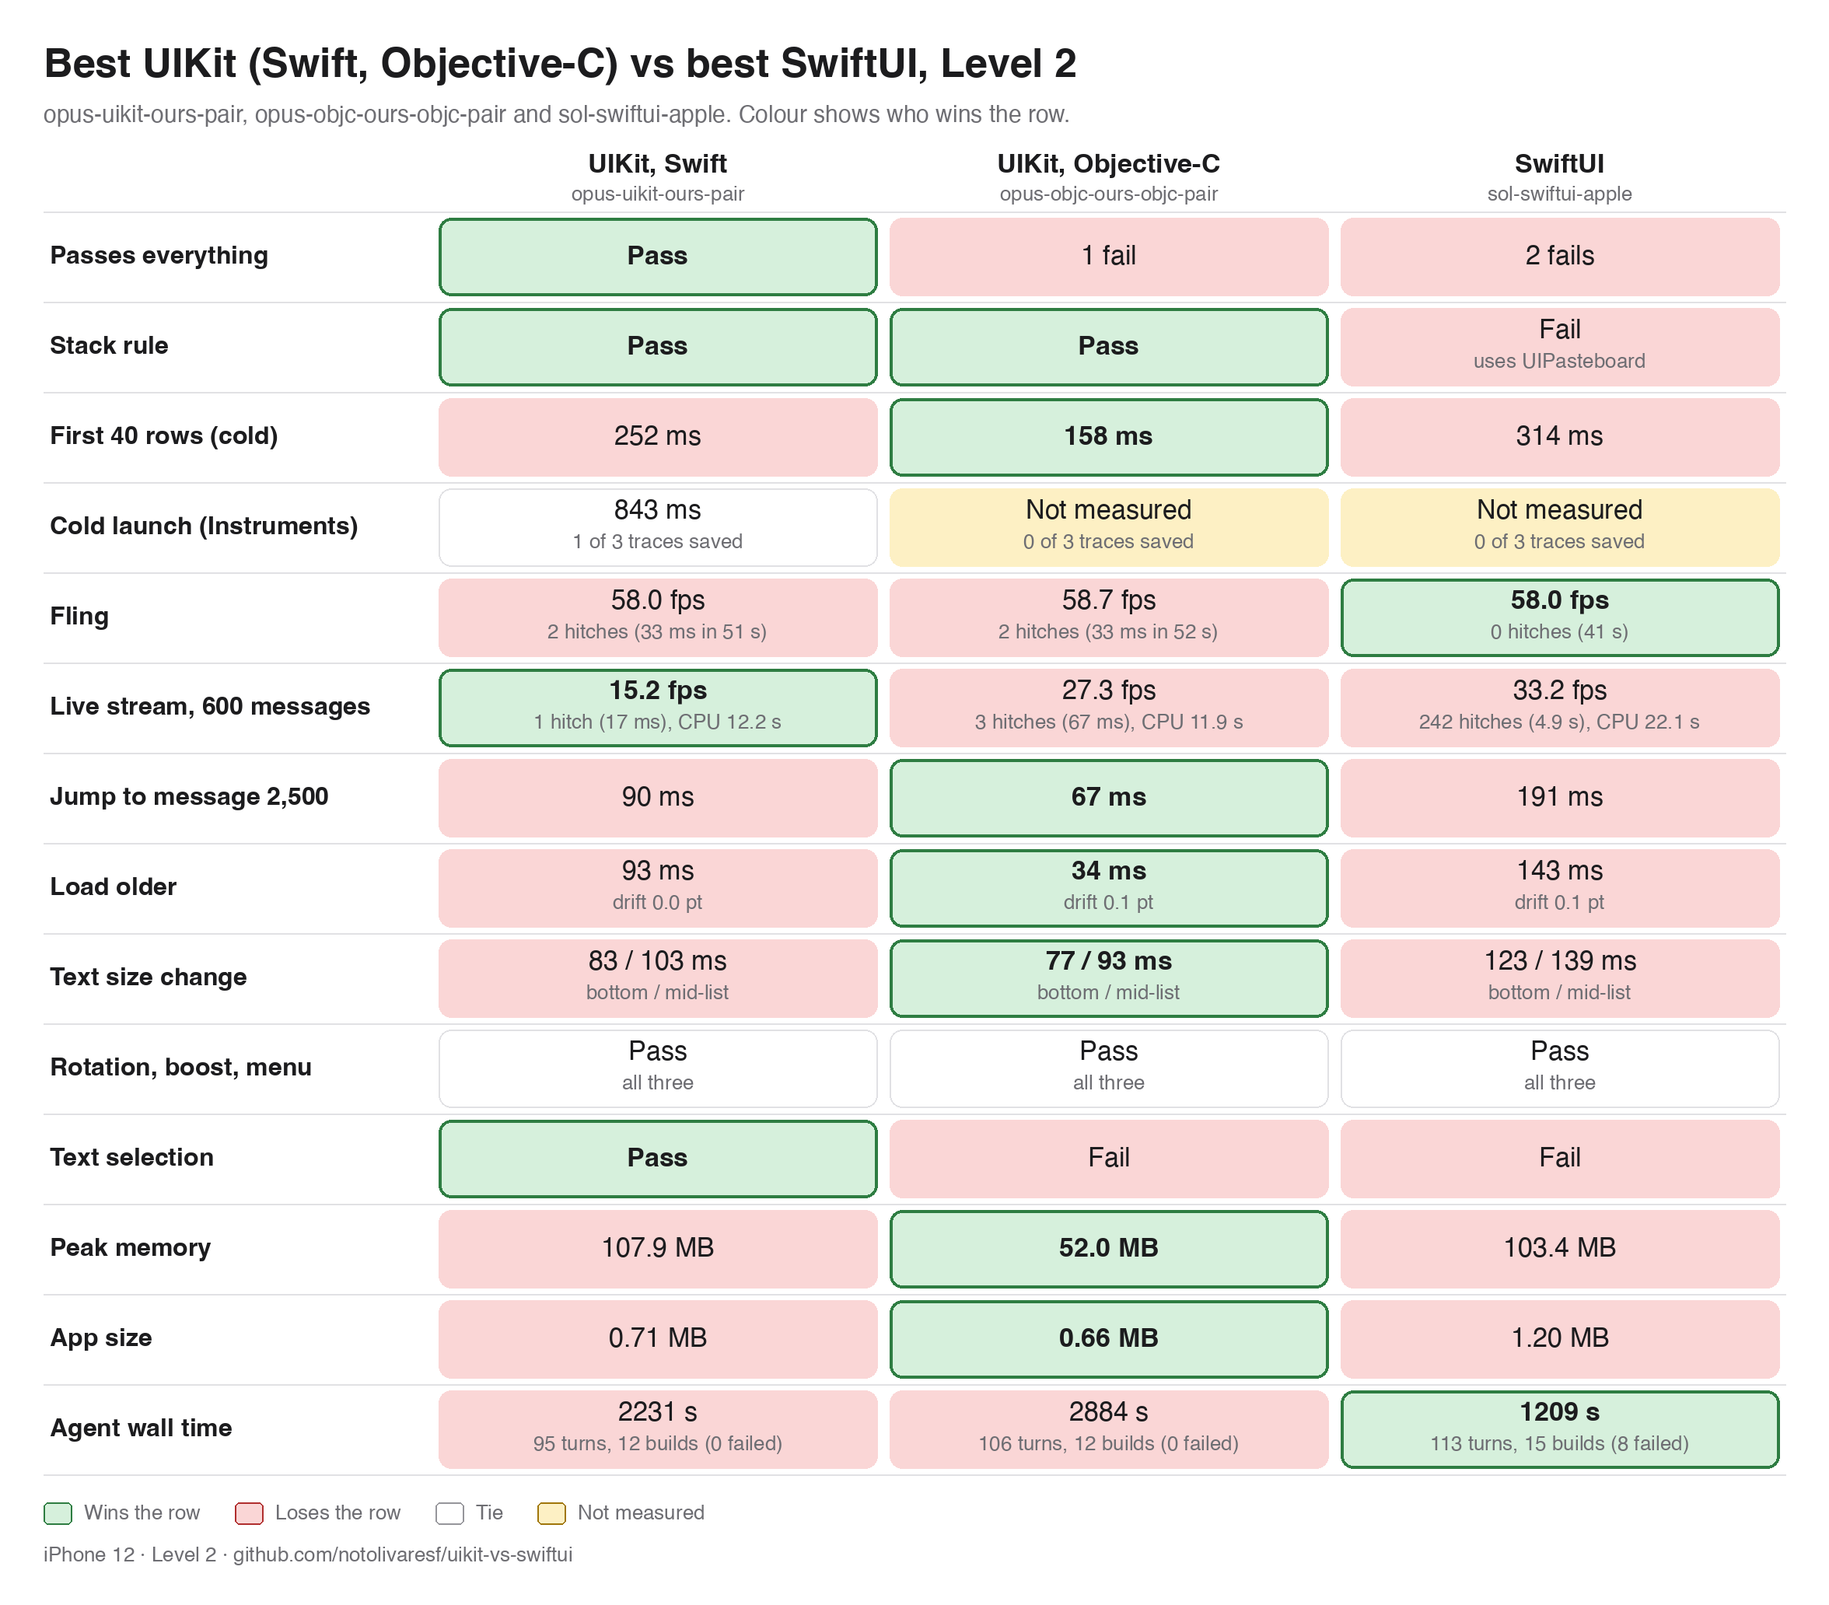
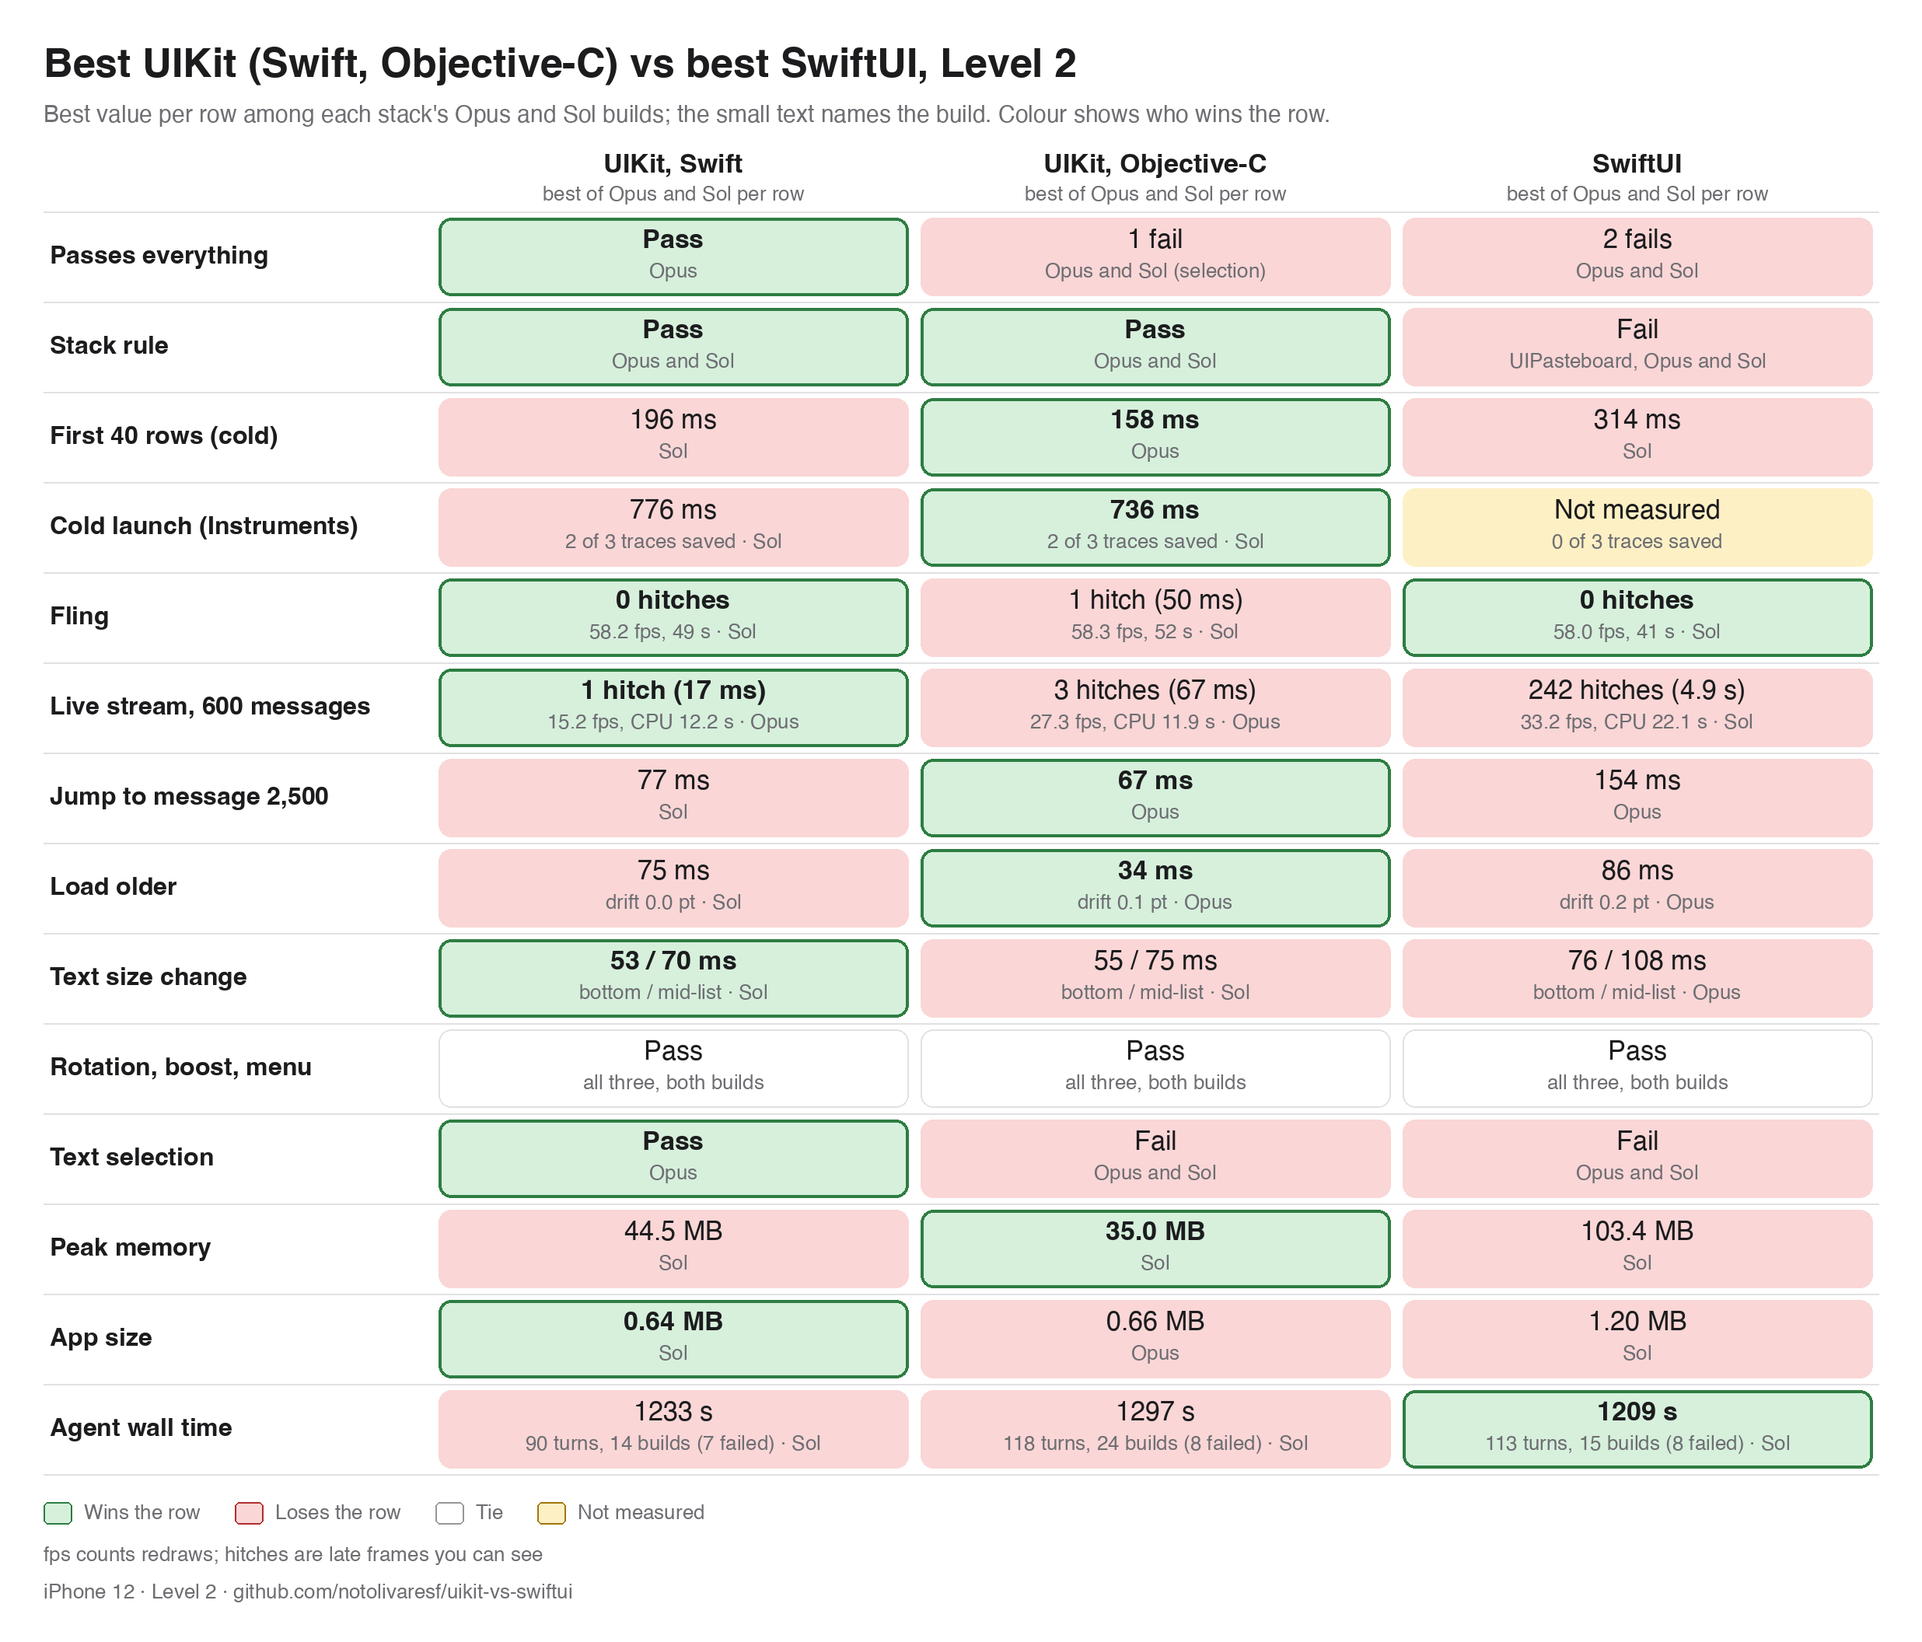
Level 2 best-of: best value per row across Opus and Sol, hitches first

diff --git a/Harness/tools/results_table.py b/Harness/tools/results_table.py
@@ -177,54 +177,45 @@ L2 = dict(title="UIKit vs SwiftUI, Level 2", subtitle="Same Campfire chat room, 
           footer="iPhone 12 · Level 2 · github.com/notolivaresf/uikit-vs-swiftui")
 
 # --- Level 2 best of each stack (docs/results-l2-best.md), rendered only with --l2-best ---
-# Columns: UIKit Swift = opus-uikit-ours-pair (index 0 of L2_ROWS), UIKit Objective-C = opus-objc-ours-objc-pair (2),
-# SwiftUI = sol-swiftui-apple (4). Cell text comes from L2_ROWS; the result per row (W win, L lose, T tie,
-# N not measured) is the best of the three, ties allowed.
-_IDX = (0, 2, 4)
+# Per row, each column (UIKit Swift, UIKit Objective-C, SwiftUI) shows the best value among that stack's two Level 2
+# builds (Opus or Sol; mix and match); the small text names the build. All numbers are from docs/results-l2.md.
+# Result per cell: W win (best of the three, ties allowed), L lose, T tie, N not measured.
 _ST = {"W": "ok", "L": "bad", "T": "none", "N": "warn"}
 
 
-def _row(label, res, subs=None, mains=None):
-    cells = dict(L2_ROWS)[label]
-    out = []
-    for k, i in enumerate(_IDX):
-        _, main, sub, _b = cells[i]
-        if mains:
-            main = mains[k]
-        if subs:
-            sub = subs[k]
-        out.append((_ST[res[k]], main, sub, res[k] == "W"))
-    return (label, out)
+def _r(res, main, sub):
+    return (_ST[res], main, sub, res == "W")
 
 
 L2B_ROWS = [
-    ("Passes everything", [("ok", "Pass", "", True), ("bad", "1 fail", "", False), ("bad", "2 fails", "", False)]),
-    _row("Stack rule", "WWL", subs=("", "", "uses UIPasteboard")),
-    _row("First 40 rows (cold)", "LWL"),
-    ("Cold launch (Instruments)", [("none", "843 ms", "1 of 3 traces saved", False), ("warn", "Not measured", "0 of 3 traces saved", False),
-                                   ("warn", "Not measured", "0 of 3 traces saved", False)]),
-    ("Fling", [("bad", "58.0 fps", "2 hitches (33 ms in 51 s)", False), ("bad", "58.7 fps", "2 hitches (33 ms in 52 s)", False),
-               ("ok", "58.0 fps", "0 hitches (41 s)", True)]),
-    ("Live stream, 600 messages", [("ok", "15.2 fps", "1 hitch (17 ms), CPU 12.2 s", True), ("bad", "27.3 fps", "3 hitches (67 ms), CPU 11.9 s", False),
-                                   ("bad", "33.2 fps", "242 hitches (4.9 s), CPU 22.1 s", False)]),
-    _row("Jump to message 2,500", "LWL"),
-    _row("Load older", "LWL"),
-    ("Text size change", [("bad", "83 / 103 ms", "bottom / mid-list", False), ("ok", "77 / 93 ms", "bottom / mid-list", True),
-                          ("bad", "123 / 139 ms", "bottom / mid-list", False)]),
-    ("Rotation, boost, menu", [("none", "Pass", "all three", False)] * 3),
-    ("Text selection", [("ok", "Pass", "", True), ("bad", "Fail", "", False), ("bad", "Fail", "", False)]),
-    _row("Peak memory", "LWL"),
-    _row("App size", "LWL"),
-    ("Agent wall time", [("bad", "2231 s", "95 turns, 12 builds (0 failed)", False), ("bad", "2884 s", "106 turns, 12 builds (0 failed)", False),
-                         ("ok", "1209 s", "113 turns, 15 builds (8 failed)", True)]),
+    ("Passes everything", [_r("W", "Pass", "Opus"), _r("L", "1 fail", "Opus and Sol (selection)"), _r("L", "2 fails", "Opus and Sol")]),
+    ("Stack rule", [_r("W", "Pass", "Opus and Sol"), _r("W", "Pass", "Opus and Sol"), _r("L", "Fail", "UIPasteboard, Opus and Sol")]),
+    ("First 40 rows (cold)", [_r("L", "196 ms", "Sol"), _r("W", "158 ms", "Opus"), _r("L", "314 ms", "Sol")]),
+    ("Cold launch (Instruments)", [_r("L", "776 ms", "2 of 3 traces saved \u00b7 Sol"), _r("W", "736 ms", "2 of 3 traces saved \u00b7 Sol"),
+                                   _r("N", "Not measured", "0 of 3 traces saved")]),
+    ("Fling", [_r("W", "0 hitches", "58.2 fps, 49 s \u00b7 Sol"), _r("L", "1 hitch (50 ms)", "58.3 fps, 52 s \u00b7 Sol"),
+               _r("W", "0 hitches", "58.0 fps, 41 s \u00b7 Sol")]),
+    ("Live stream, 600 messages", [_r("W", "1 hitch (17 ms)", "15.2 fps, CPU 12.2 s \u00b7 Opus"), _r("L", "3 hitches (67 ms)", "27.3 fps, CPU 11.9 s \u00b7 Opus"),
+                                   _r("L", "242 hitches (4.9 s)", "33.2 fps, CPU 22.1 s \u00b7 Sol")]),
+    ("Jump to message 2,500", [_r("L", "77 ms", "Sol"), _r("W", "67 ms", "Opus"), _r("L", "154 ms", "Opus")]),
+    ("Load older", [_r("L", "75 ms", "drift 0.0 pt \u00b7 Sol"), _r("W", "34 ms", "drift 0.1 pt \u00b7 Opus"), _r("L", "86 ms", "drift 0.2 pt \u00b7 Opus")]),
+    ("Text size change", [_r("W", "53 / 70 ms", "bottom / mid-list \u00b7 Sol"), _r("L", "55 / 75 ms", "bottom / mid-list \u00b7 Sol"),
+                          _r("L", "76 / 108 ms", "bottom / mid-list \u00b7 Opus")]),
+    ("Rotation, boost, menu", [_r("T", "Pass", "all three, both builds")] * 3),
+    ("Text selection", [_r("W", "Pass", "Opus"), _r("L", "Fail", "Opus and Sol"), _r("L", "Fail", "Opus and Sol")]),
+    ("Peak memory", [_r("L", "44.5 MB", "Sol"), _r("W", "35.0 MB", "Sol"), _r("L", "103.4 MB", "Sol")]),
+    ("App size", [_r("W", "0.64 MB", "Sol"), _r("L", "0.66 MB", "Opus"), _r("L", "1.20 MB", "Sol")]),
+    ("Agent wall time", [_r("L", "1233 s", "90 turns, 14 builds (7 failed) \u00b7 Sol"), _r("L", "1297 s", "118 turns, 24 builds (8 failed) \u00b7 Sol"),
+                         _r("W", "1209 s", "113 turns, 15 builds (8 failed) \u00b7 Sol")]),
 ]
 L2B = dict(title="Best UIKit (Swift, Objective-C) vs best SwiftUI, Level 2",
-           subtitle="opus-uikit-ours-pair, opus-objc-ours-objc-pair and sol-swiftui-apple. Colour shows who wins the row.",
-           builds=[("UIKit, Swift", "opus-uikit-ours-pair"), ("UIKit, Objective-C", "opus-objc-ours-objc-pair"),
-                   ("SwiftUI", "sol-swiftui-apple")], rows=L2B_ROWS, col_w=290, file="results-l2-best",
+           subtitle="Best value per row among each stack's Opus and Sol builds; the small text names the build. Colour shows who wins the row.",
+           builds=[("UIKit, Swift", "best of Opus and Sol per row"), ("UIKit, Objective-C", "best of Opus and Sol per row"),
+                   ("SwiftUI", "best of Opus and Sol per row")], rows=L2B_ROWS, col_w=310, file="results-l2-best",
            groups=None, row_h=58,
            legend=[("ok", "Wins the row"), ("bad", "Loses the row"), ("none", "Tie"), ("warn", "Not measured")],
-           footer="iPhone 12 · Level 2 · github.com/notolivaresf/uikit-vs-swiftui")
+           note="fps counts redraws; hitches are late frames you can see",
+           footer="iPhone 12 \u00b7 Level 2 \u00b7 github.com/notolivaresf/uikit-vs-swiftui")
 
 S = 2  # scale
 LABEL_W, COL_W, ROW_H, HEAD_H, GROUP_H = 250, 220, 62, 44, 36  # ROW_H is the default; a spec can set row_h
@@ -260,7 +251,7 @@ def render(name, spec=None):
     group_h = GROUP_H if groups else 0
     W = PAD * 2 + LABEL_W + COL_W * len(BUILDS)
     title_h = 64
-    H = PAD + title_h + group_h + HEAD_H + ROW_H * len(ROWS) + 56 + PAD
+    H = PAD + title_h + group_h + HEAD_H + ROW_H * len(ROWS) + 56 + PAD + (24 if spec.get("note") else 0)
     img = Image.new("RGB", (W * S, H * S), th["bg"])
     d = ImageDraw.Draw(img)
     x0 = PAD
@@ -329,6 +320,9 @@ def render(name, spec=None):
         d.rounded_rectangle([lx * S, y * S, (lx + 18) * S, (y + 14) * S], 3 * S, outline=th["text"], width=2 * S)
         d.text(((lx + 26) * S, (y + 7) * S), "Best in row (bold, outlined)", font=font(13), fill=th["muted"], anchor="lm")
     y += 28
+    if spec.get("note"):
+        d.text((x0 * S, (y + 6) * S), spec["note"], font=font(13), fill=th["muted"], anchor="lm")
+        y += 24
     d.text((x0 * S, (y + 6) * S), spec.get("footer", "iPhone 12 · Level 1 · github.com/notolivaresf/uikit-vs-swiftui"),
            font=font(13), fill=th["muted"], anchor="lm")
     out = os.path.join(os.path.dirname(__file__), "..", "..", "docs", "images",

diff --git a/docs/results-l2-best.md b/docs/results-l2-best.md
@@ -1,40 +1,43 @@
 # Level 2: best Swift UIKit, best Objective-C UIKit and best SwiftUI
 
-Fernando asked (20 Oct) for the best UIKit build against the best SwiftUI build of Level 2, then for UIKit split into Swift and Objective-C. Every number is from `docs/results-l2.md` (round 1, iPhone 12). Each pick is the build that passes the most behaviours, then wins the performance tie-breakers (fling and stream hitches and fps, memory, launch, agent cost).
+Fernando asked (20 Oct) for the best UIKit build against the best SwiftUI build of Level 2, UIKit split into Swift and Objective-C, and then: "The best should be the best of each metric regardless if we mix and match." So each column shows, row by row, the best value among that stack's two Level 2 builds (Opus and Sol), and each cell names the build it came from. A column is therefore not one build. Every number is from `docs/results-l2.md` (round 1, iPhone 12).
 
-![Best Swift UIKit, Objective-C UIKit and SwiftUI, Level 2](images/results-l2-best.png)
+![Best Swift UIKit, Objective-C UIKit and SwiftUI per row, Level 2](images/results-l2-best.png)
 
 (Dark version: `images/results-l2-best-dark.png`; rendered with `python3 Harness/tools/results_table.py --l2-best`.)
 
-## The picks
+How a cell is chosen: lowest time, hitches, memory or size; pass if either build passed. Fling and stream lead with hitches (late frames you can see), fps second: fps counts redraws, so a build that redraws only when a message lands shows fewer frames without stuttering. The winner of a row is the best of the three columns; ties both win.
 
-- **Best Swift UIKit: opus-uikit-ours-pair.** It passes every behaviour and the stack rule, the only one of the six Level 2 builds that does.
-- **Best Objective-C UIKit: opus-objc-ours-objc-pair.** It and sol-objc-ours-objc-pair both miss only text selection, and Opus has the smoother stream (3 hitches and 11.9 s of CPU against 9 and 18.7 s) and wins first content, jump, load older and app size, while Sol wins memory (35.0 against 52.0 MB), launch and agent time, so Sol is close.
-- **Best SwiftUI: sol-swiftui-apple.** Both SwiftUI builds fail the same two behaviours (stack rule, text selection), so the tie-breakers decide: 0 fling hitches against 5, 242 stream hitches against 425, 103.4 MB against 215.4 MB, and 1209 s of agent time against 4301 s; cold launch was not measured for either.
+## Head to head (source build in brackets)
 
-## Head to head
-
-| Row | UIKit, Swift: opus-uikit-ours-pair | UIKit, Objective-C: opus-objc-ours-objc-pair | SwiftUI: sol-swiftui-apple | Winner |
+| Row | UIKit, Swift | UIKit, Objective-C | SwiftUI | Winner |
 |---|---|---|---|---|
-| Passes everything | pass | 1 fail (text selection) | 2 fails (stack rule, text selection) | Swift UIKit |
-| Stack rule | pass | pass | fail: imports UIKit's UIPasteboard | Swift and Objective-C UIKit |
-| First content (time to 40 rows) | 252 ms cold | 158 ms cold | 314 ms cold | Objective-C UIKit |
-| Cold launch (Instruments) | 843 ms (1 of 3 samples) | not measured: 0 of 3 traces saved before the 300 s cap | not measured: same | none |
-| Fling | 58.0 fps, 2 hitches (33 ms in 51 s) | 58.7 fps, 2 hitches (33 ms in 52 s) | 58.0 fps, 0 hitches (41 s) | SwiftUI (hitches) |
-| Jump to message 2500 | 90 ms | 67 ms | 191 ms | Objective-C UIKit |
-| Load older keeps place | 93 ms | 34 ms | 143 ms | Objective-C UIKit |
-| Live stream, 600 messages | 15.2 fps, 1 hitch (17 ms), CPU 12.2 s | 27.3 fps, 3 hitches (67 ms), CPU 11.9 s | 33.2 fps, 242 hitches (4.9 s), CPU 22.1 s | Swift UIKit (hitches) |
-| Text size change | 83 / 103 ms | 77 / 93 ms | 123 / 139 ms | Objective-C UIKit |
-| Rotation, boost burst, context menu | pass | pass | pass | tie |
-| Text selection | pass | fail | fail | Swift UIKit |
-| Peak memory | 107.9 MB | 52.0 MB | 103.4 MB | Objective-C UIKit |
-| App size | 0.71 MB | 0.66 MB | 1.20 MB | Objective-C UIKit |
-| Agent wall time / turns / builds (failed) | 2231 s / 95 / 12 (0) | 2884 s / 106 / 12 (0) | 1209 s / 113 / 15 (8) | SwiftUI on time |
+| Passes everything | pass (Opus) | 1 fail, selection (Opus and Sol) | 2 fails (Opus and Sol) | Swift |
+| Stack rule | pass (Opus and Sol) | pass (Opus and Sol) | fail, UIPasteboard (Opus and Sol) | Swift, Objective-C |
+| First 40 rows, cold | 196 ms (Sol) | 158 ms (Opus) | 314 ms (Sol) | Objective-C |
+| Cold launch (Instruments) | 776 ms, 2 of 3 traces (Sol) | 736 ms, 2 of 3 traces (Sol) | not measured: 0 of 3 traces saved | Objective-C |
+| Fling | 0 hitches, 58.2 fps, 49 s (Sol) | 1 hitch (50 ms), 58.3 fps, 52 s (Sol) | 0 hitches, 58.0 fps, 41 s (Sol) | Swift, SwiftUI |
+| Live stream, 600 messages | 1 hitch (17 ms), 15.2 fps, CPU 12.2 s (Opus) | 3 hitches (67 ms), 27.3 fps, CPU 11.9 s (Opus) | 242 hitches (4.9 s), 33.2 fps, CPU 22.1 s (Sol) | Swift |
+| Jump to message 2500 | 77 ms (Sol) | 67 ms (Opus) | 154 ms (Opus) | Objective-C |
+| Load older | 75 ms, drift 0.0 pt (Sol) | 34 ms, drift 0.1 pt (Opus) | 86 ms, drift 0.2 pt (Opus) | Objective-C |
+| Text size change (bottom / mid-list) | 53 / 70 ms (Sol) | 55 / 75 ms (Sol) | 76 / 108 ms (Opus) | Swift |
+| Rotation, boost burst, context menu | pass (both) | pass (both) | pass (both) | tie |
+| Text selection | pass (Opus) | fail (Opus and Sol) | fail (Opus and Sol) | Swift |
+| Peak memory | 44.5 MB (Sol) | 35.0 MB (Sol) | 103.4 MB (Sol) | Objective-C |
+| App size | 0.64 MB (Sol) | 0.66 MB (Opus) | 1.20 MB (Sol) | Swift |
+| Agent wall time, turns, builds (failed) | 1233 s, 90, 14 (7) (Sol) | 1297 s, 118, 24 (8) (Sol) | 1209 s, 113, 15 (8) (Sol) | SwiftUI |
+
+Cold launch is not comparable to Level 1: only 2 of 3 traces saved for the measured builds, and for SwiftUI none saved before the 300 s cap.
+
+## Win counts
+
+Of 14 rows: Swift UIKit wins 7 (passes everything, stack rule shared, fling shared, stream, text size, text selection, app size), Objective-C UIKit wins 6 (stack rule shared, first content, cold launch, jump, load older, peak memory), SwiftUI wins 2 (fling shared, agent time); one row is a tie.
 
 ## Takeaways
 
-- Of 14 rows, Objective-C UIKit wins 7 (one shared), Swift UIKit 4 (one shared), SwiftUI 2; one row is a tie and one is not measured.
-- Only the Swift UIKit build passes everything; the Objective-C build misses text selection, and the SwiftUI build also fails the stack rule (it uses UIKit's UIPasteboard for Copy).
-- Objective-C UIKit is the quickest and leanest: first content 158 ms, load older 34 ms, 52.0 MB against 107.9 MB (Swift) and 103.4 MB (SwiftUI).
-- The stream is where SwiftUI is clearly behind: 242 dropped frames and 22.1 s of CPU against 1 to 3 hitches and about 12 s for both UIKit builds. Its higher fps (33.2) is not smoothness; read fps together with hitches.
-- SwiftUI wins fling hitches (0 against 2 for both UIKit builds, though the Objective-C build has the highest fling fps, 58.7) and agent time (1209 s), but needed 8 failed builds against none for both UIKit builds.
+- Mixing and matching narrows the field: UIKit in Swift and in Objective-C win 13 of the 14 rows between them (7 and 6, stack rule counted for both), SwiftUI only 2, and one is a tie.
+- Correctness is still one-sided: only Swift UIKit (the Opus build) passes everything; Objective-C misses text selection in both builds; SwiftUI fails the stack rule (it uses UIKit's UIPasteboard for Copy) and selection in both.
+- The stream is the biggest gap: 242 hitches and 22.1 s of CPU for SwiftUI against 1 to 3 hitches and about 12 s for both UIKit stacks. Its higher fps (33.2) is redraws, not smoothness.
+- Fling is a draw at the top: Swift UIKit and SwiftUI both get 0 hitches (different Sol builds), and Objective-C's best has 1; fps is 58.0 to 58.3 everywhere.
+- Objective-C UIKit is quickest and leanest: first content 158 ms, load older 34 ms, 35.0 MB against 44.5 MB (Swift) and 103.4 MB (SwiftUI). Swift UIKit wins text size (53 against 55 ms, close) and app size (0.64 against 0.66 MB, close).
+- Agent cost is nearly level when the best build is taken (1209 to 1297 s, all Sol), with SwiftUI first by 24 s, but it took 8 failed builds against 7 for Swift and 8 for Objective-C, so there is no clear saving.
